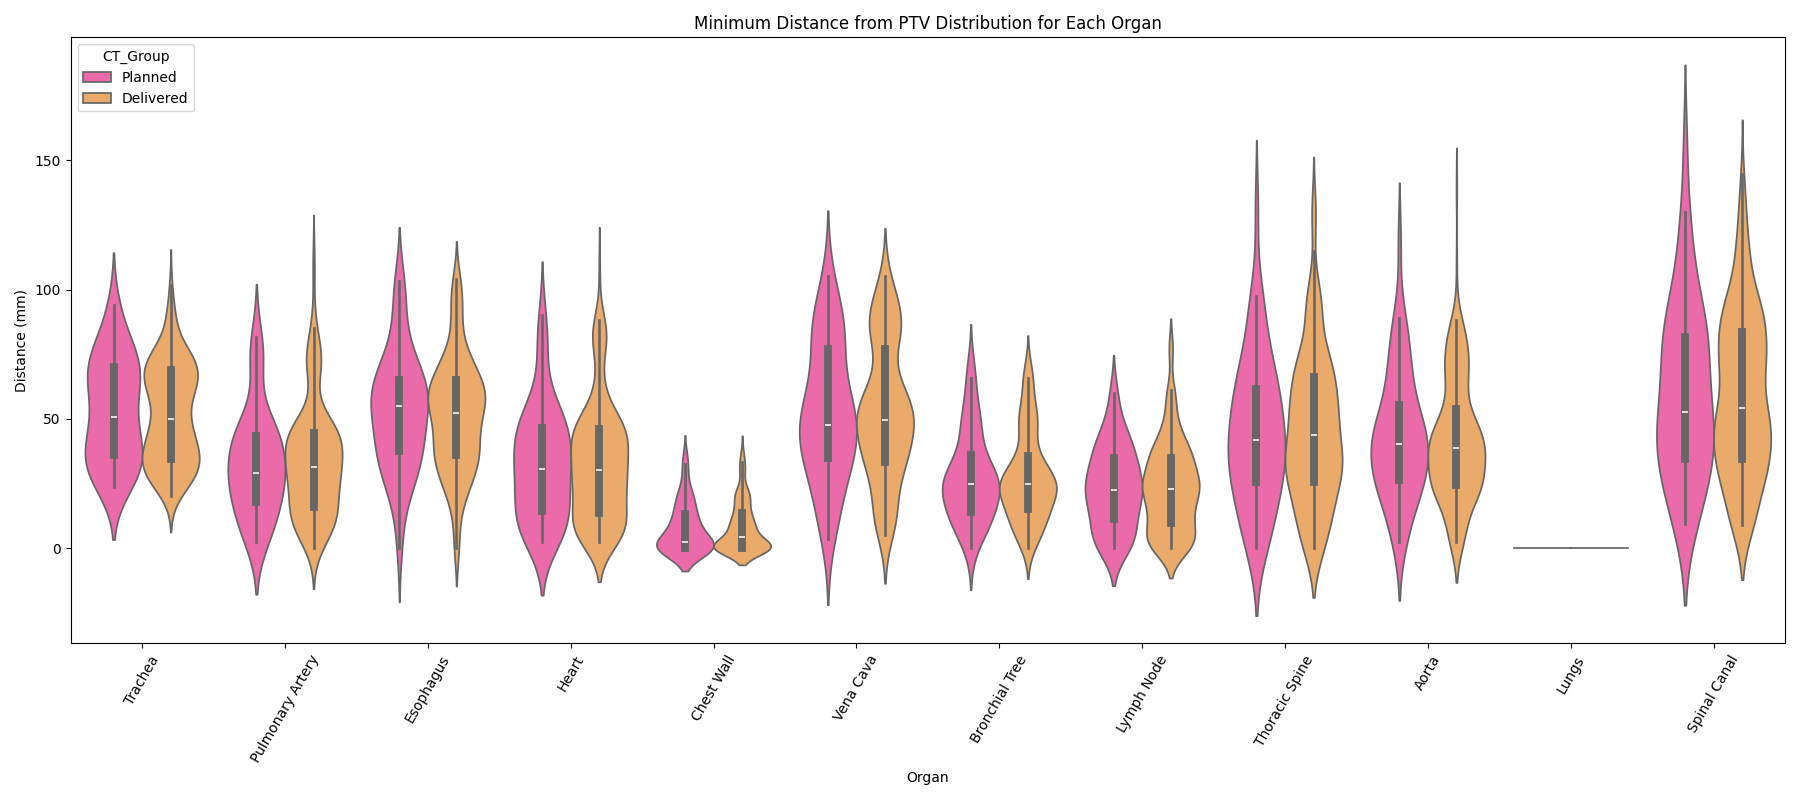
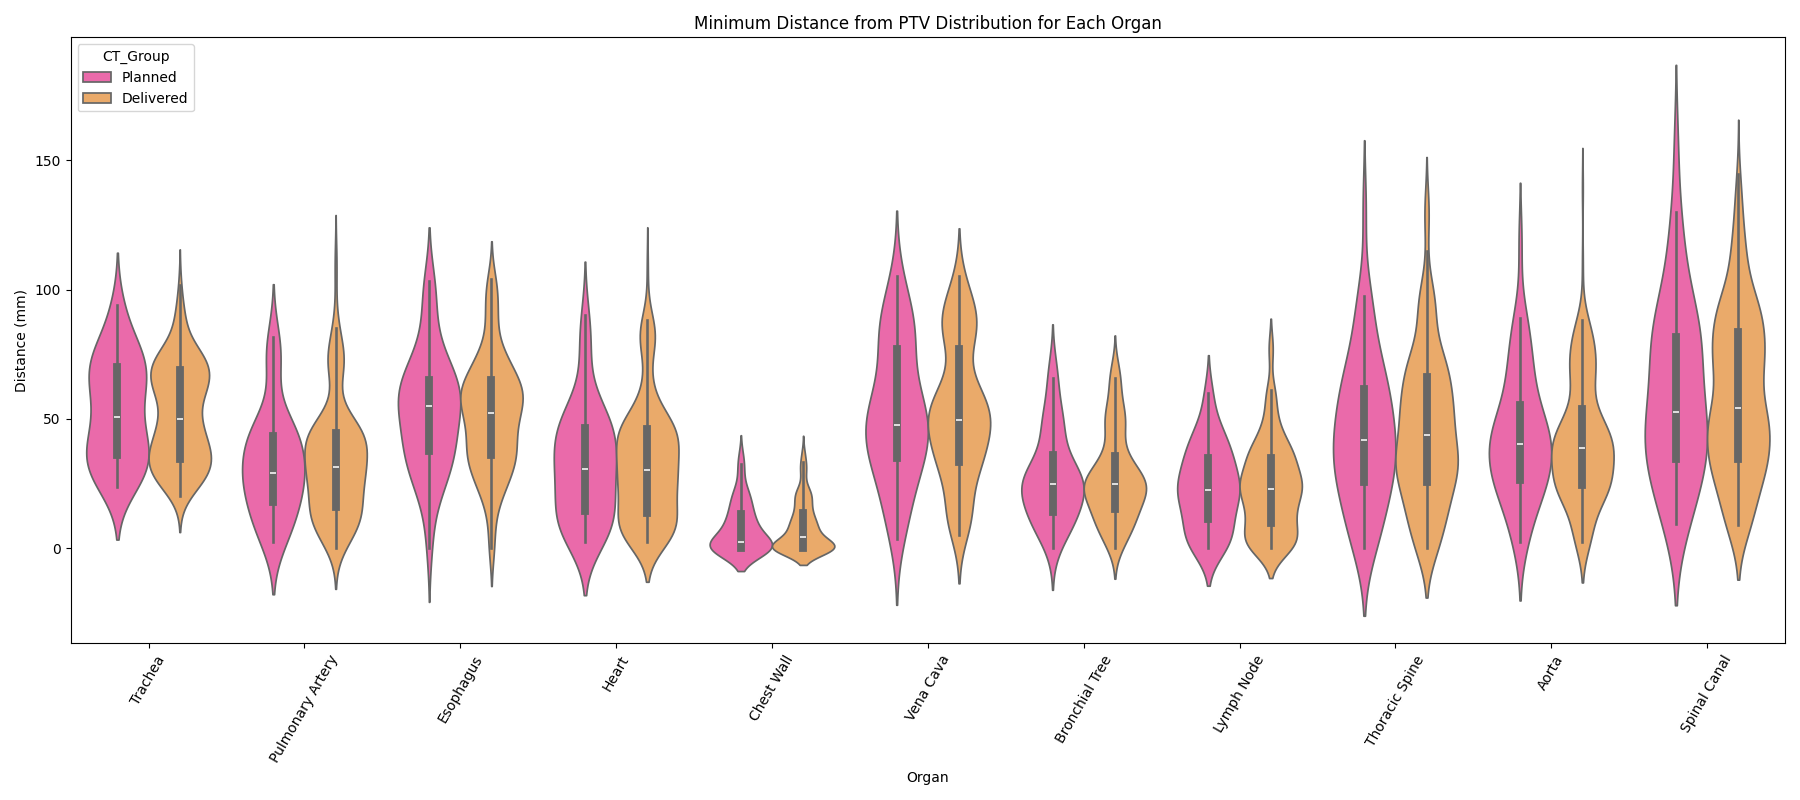
removed dminptv lung

diff --git a/data_processing_programs/pd3_template.py b/data_processing_programs/pd3_template.py
@@ -28,5 +28,5 @@ all_data_df = all_data_df[~all_data_df["Organ_Clean"].isin(removed_vals)]
 all_data_df = all_data_df.rename(columns={"Unnamed: 0":"CT#"})
 
 
-print(all_data_df.loc[(all_data_df["CT#"] == 0) & (all_data_df["MaxDose"] > 2.0) & all_data_df["FractionOverlap"].notna(), ["CT#", "MaxDose", "VolumeOverlap","FractionOverlap"]])
+#print(all_data_df.loc[(all_data_df["CT#"] == 0) & (all_data_df["MaxDose"] > 2.0) & all_data_df["FractionOverlap"].notna(), ["CT#", "MaxDose", "VolumeOverlap","FractionOverlap"]])
 

diff --git a/data_processing_programs/sspaner_violin_plots.py b/data_processing_programs/sspaner_violin_plots.py
@@ -178,11 +178,13 @@ df["CT_Group"] = df["CT#"].apply(lambda x: "Planned" if x == 0 else "Delivered")
 def make_violin_plot(column):
     plt.figure(figsize=(18,8))
 
+    plot_df = df
+
     if column == 'DminFromPTV (mm)':
-        df = df[df["Organ_Clean"] != "Lungs"]
+        plot_df = df[df["Organ_Clean"] != "Lungs"]
 
     sns.violinplot(
-        data=df,
+        data=plot_df,
         x="Organ_Clean",
         y=column,
         hue="CT_Group",
